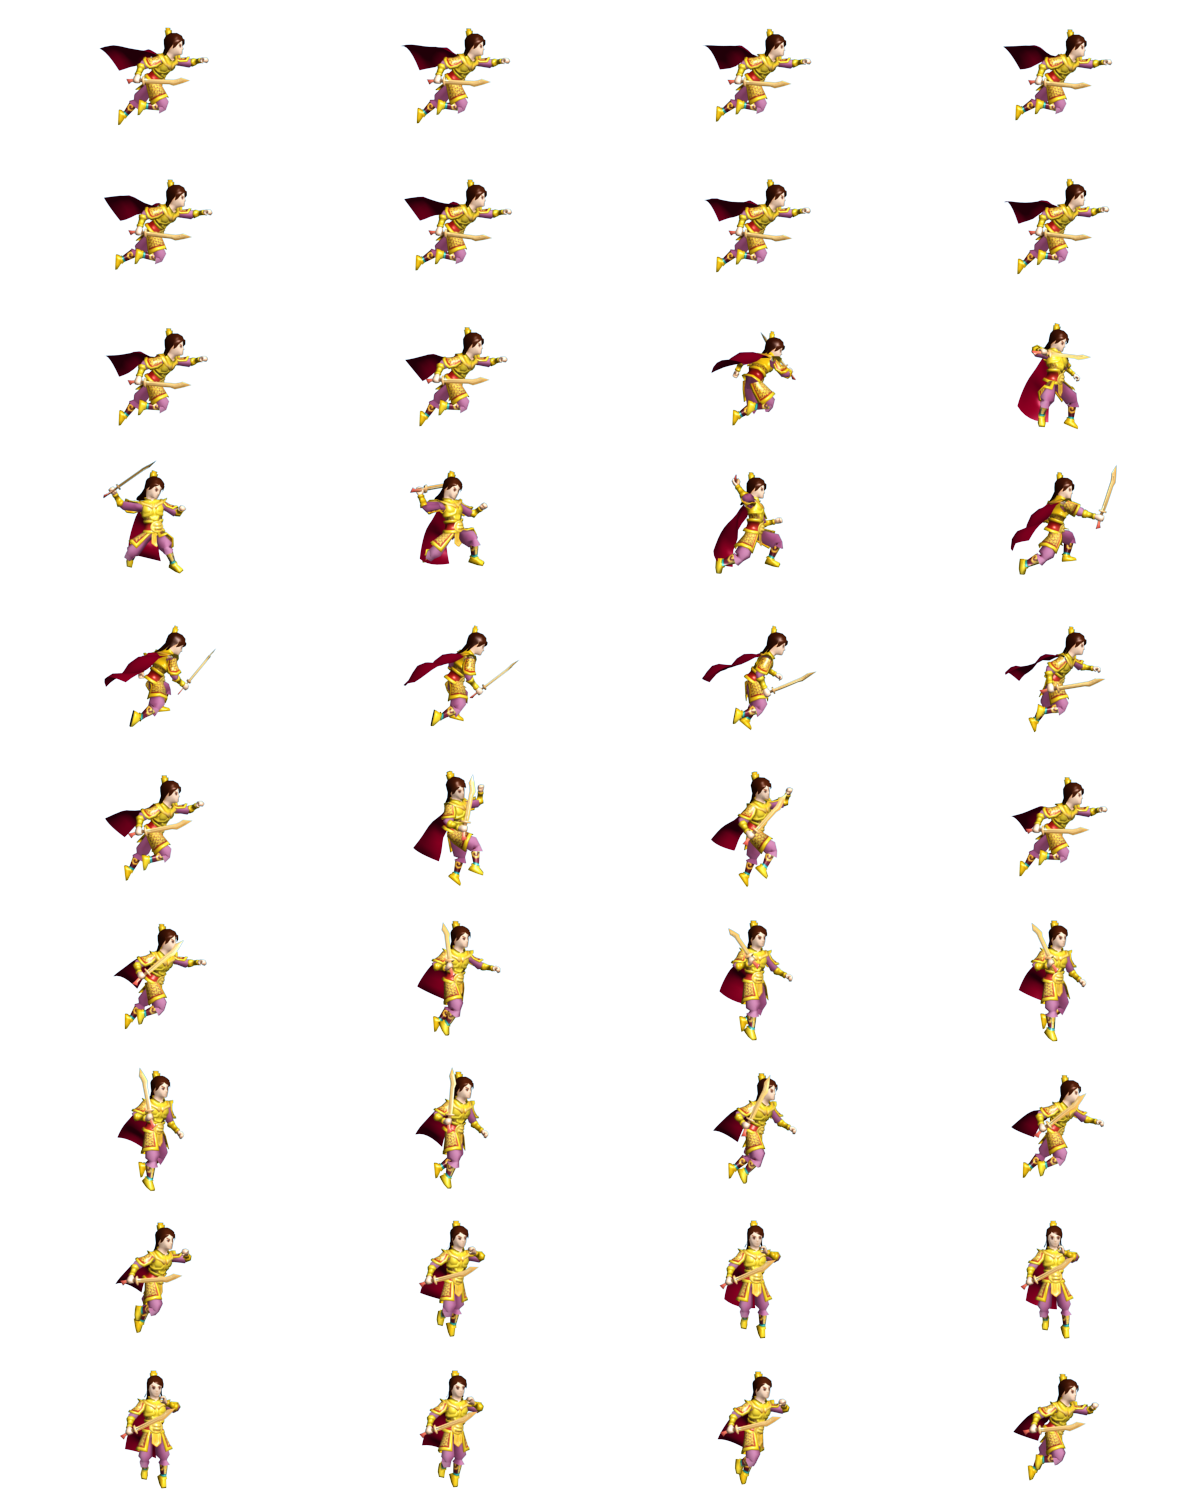
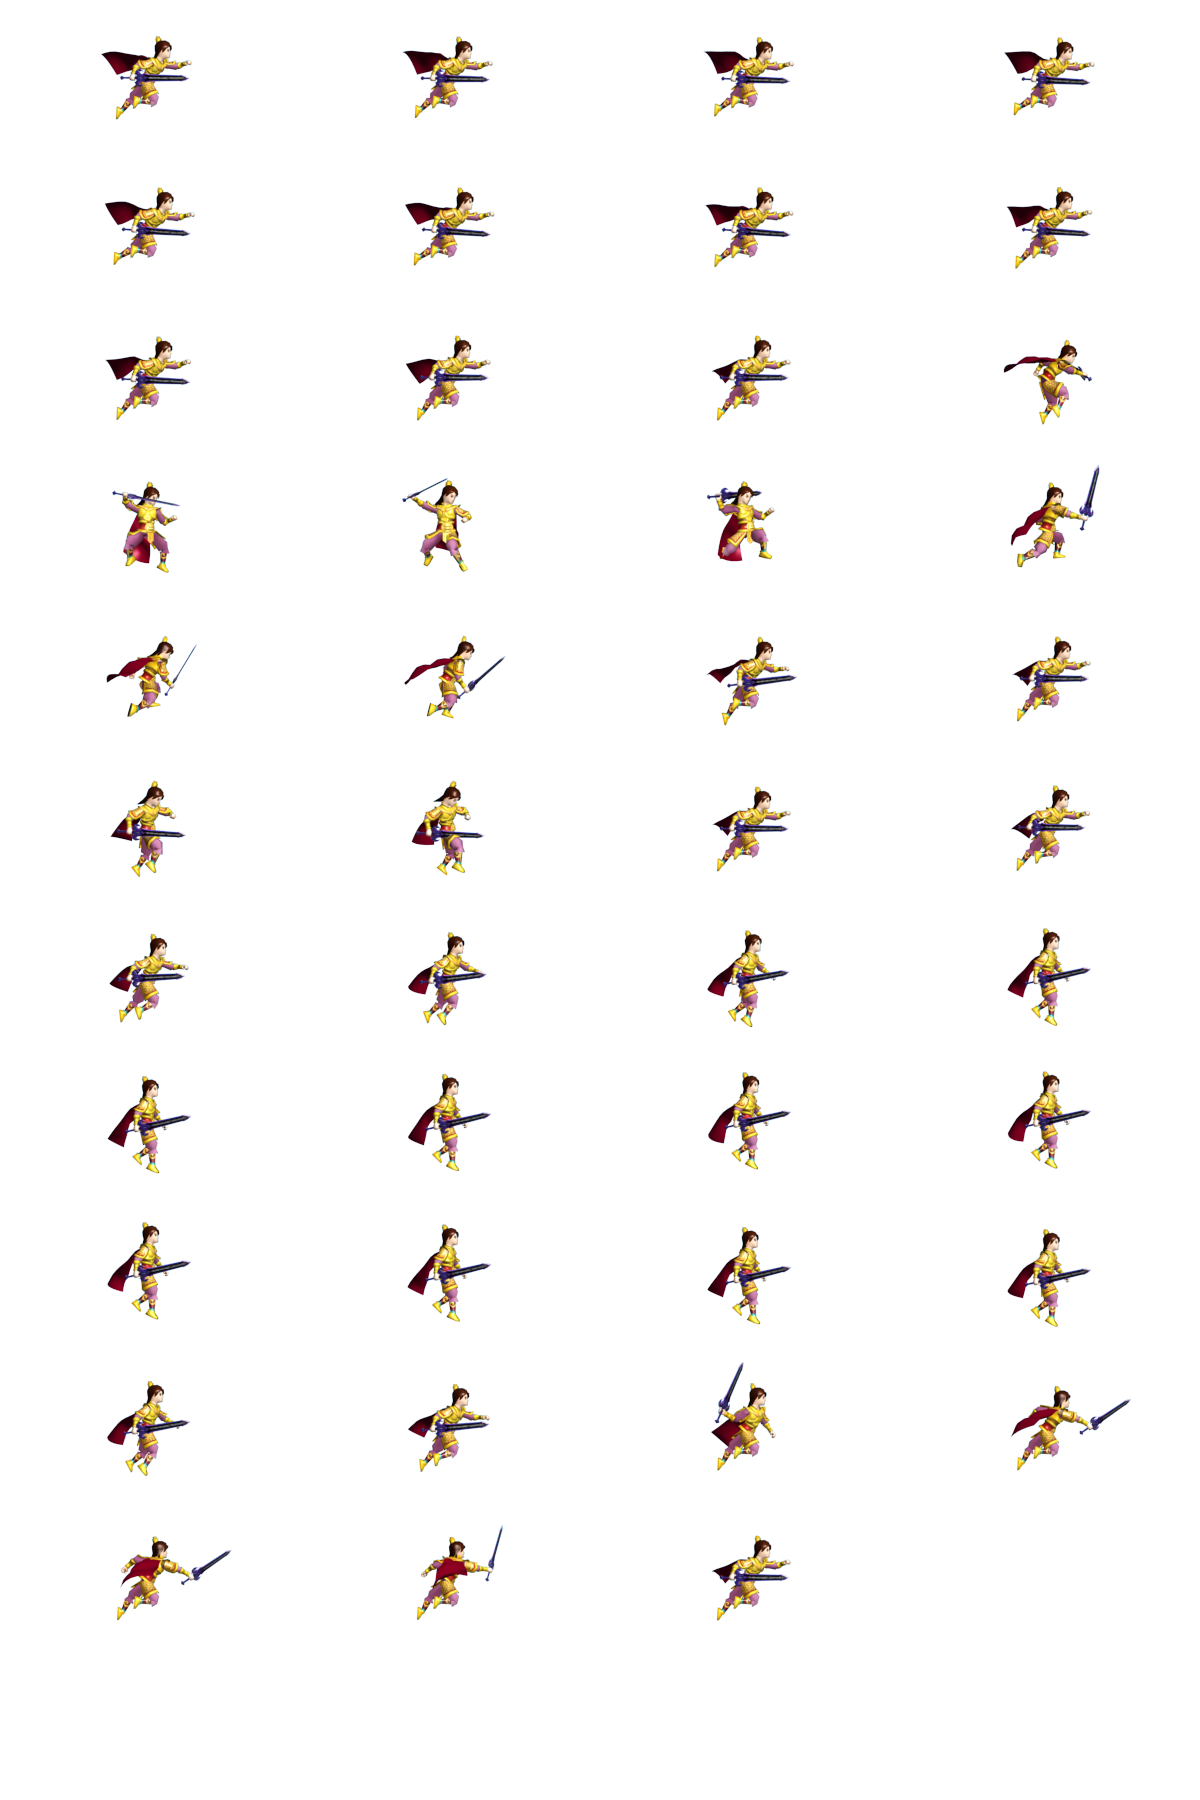
fix bug ，modify char3

diff --git a/mmodemo/demo/demo/MainGame.cs b/mmodemo/demo/demo/MainGame.cs
@@ -246,7 +246,7 @@ namespace demo
             }
             else
             {
-                ProjectXServer.Messages.PlayerLoginMsg msg = new ProjectXServer.Messages.PlayerLoginMsg();
+                ProjectXServer.Messages.PlayerLoginSelfMsg msg = new ProjectXServer.Messages.PlayerLoginSelfMsg();
                 msg.ClientID = 0;
                 msg.Name = "player1";
                 msg.Position = new float[] {GameConst.ScreenWidth / 2, GameConst.ScreenHeight / 2};
@@ -255,7 +255,7 @@ namespace demo
                 msg.DEF = 30;
                 msg.HP = 1000;
                 msg.MaxHP = 1000;
-                CreatePlayer(msg);
+                CreateLocalPlayer(msg);
             }
         }
 
@@ -279,58 +279,61 @@ namespace demo
             
         }
 
-        private void CreatePlayer(ProjectXServer.Messages.PlayerLoginMsg pn)
+        private void CreateLocalPlayer(ProjectXServer.Messages.PlayerLoginSelfMsg pn)
         {
             contentLoadingTask.Wait();
-            if (pn.ClientID == ClientID)
+            player = new Player(pn.Name, CurrentScene);
+            CharacterDefinition.PicDef pd = Content.Load<CharacterDefinition.PicDef>(@"chardef/char3");
+            CharacterPic cpic = new CharacterPic(pd, 15);
+            player.Picture = cpic;
+            CharacterTitle title = new CharacterTitle(GameConst.CurrentFont);
+            title.Layer = 15;
+            title.NameString = pn.Name;
+            title.Character = player;
+            player.Title = title;
+            player.Position = new Vector2(pn.Position[0], pn.Position[1]);
+            player.Speed = pn.Speed;//GameConst.PlayerSpeed;
+            player.ATK = pn.ATK;//GameConst.PlayerAtk;
+            player.DEF = pn.DEF;//GameConst.PlayerAtk;
+            player.HP = pn.HP;//GameConst.PlayerHP;
+            player.MaxHP = pn.MaxHP;// GameConst.PlayerHP;
+            player.AddActionSet("Idle", CharacterState.Spawn, CharacterActionSetChangeFactor.EffectCompleted, "Spawn");
+            player.AddActionSet("Idle", CharacterState.Idle, CharacterActionSetChangeFactor.Immediate, null);
+            player.AddPreRenderEffect("Spawn", spawnEffect);
+            player.ClientID = pn.ClientID;
+            CurrentScene.AddCharacter(player);
+            CurrentScene.Player = player;
+            player.UpdateSceneScroll();
+            Control ctrl = System.Windows.Forms.Control.FromHandle(GameConst.GameWindow.Handle);
+            ctrl.Invoke(new Action(() =>
             {
-                player = new Player(pn.Name, CurrentScene);
-                CharacterDefinition.PicDef pd = Content.Load<CharacterDefinition.PicDef>(@"chardef/char3");
-                CharacterPic cpic = new CharacterPic(pd, 15);
-                player.Picture = cpic;
-                CharacterTitle title = new CharacterTitle(GameConst.CurrentFont);
-                title.Layer = 15;
-                title.NameString = pn.Name;
-                title.Character = player;
-                player.Title = title;
-                player.Position = new Vector2(pn.Position[0], pn.Position[1]);
-                player.Speed = pn.Speed;//GameConst.PlayerSpeed;
-                player.ATK = pn.ATK;//GameConst.PlayerAtk;
-                player.DEF = pn.DEF;//GameConst.PlayerAtk;
-                player.HP = pn.HP;//GameConst.PlayerHP;
-                player.MaxHP = pn.MaxHP;// GameConst.PlayerHP;
-                player.AddActionSet("Idle", CharacterState.Spawn, CharacterActionSetChangeFactor.EffectCompleted, "Spawn");
-                player.AddActionSet("Idle", CharacterState.Idle, CharacterActionSetChangeFactor.Immediate, null);
-                player.AddPreRenderEffect("Spawn", spawnEffect);
-                player.ClientID = pn.ClientID;
-                CurrentScene.AddCharacter(player);
-                CurrentScene.Player = player;
-                player.UpdateSceneScroll();
                 this.Window.Title = pn.Name;
-            }
-            else
-            {
-                NetPlayer playernet = new NetPlayer(pn.Name, CurrentScene);
-                CharacterDefinition.PicDef pd = Content.Load<CharacterDefinition.PicDef>(@"chardef/char3");
-                CharacterPic cpic = new CharacterPic(pd, 15);
-                playernet.Picture = cpic;
-                CharacterTitle title = new CharacterTitle(GameConst.CurrentFont);
-                title.Layer = 15;
-                title.NameString = pn.Name;
-                title.Character = playernet;
-                playernet.Title = title;
-                playernet.Position = new Vector2(pn.Position[0], pn.Position[1]);
-                playernet.Speed = pn.Speed;// GameConst.PlayerSpeed;
-                playernet.ATK = pn.ATK;//GameConst.PlayerAtk;
-                playernet.DEF = pn.DEF;//GameConst.PlayerAtk;
-                playernet.HP = pn.HP;//GameConst.PlayerHP;
-                playernet.MaxHP = pn.MaxHP;// GameConst.PlayerHP;
-                //playernet.AddActionSet("Idle", CharacterState.Spawn, CharacterActionSetChangeFactor.EffectCompleted, "Spawn");
-                playernet.AddActionSet("Idle", CharacterState.Idle, CharacterActionSetChangeFactor.Immediate, null);
-                playernet.ClientID = pn.ClientID;
-                //playernet.AddPreRenderEffect("Spawn", spawnEffect);
-                CurrentScene.AddNetPlayer(playernet);
-            }
+            }));
+            
+        }
+
+        private void CreatePlayer(ProjectXServer.Messages.PlayerLoginMsg pn)
+        {
+            NetPlayer playernet = new NetPlayer(pn.Name, CurrentScene);
+            CharacterDefinition.PicDef pd = Content.Load<CharacterDefinition.PicDef>(@"chardef/char3");
+            CharacterPic cpic = new CharacterPic(pd, 15);
+            playernet.Picture = cpic;
+            CharacterTitle title = new CharacterTitle(GameConst.CurrentFont);
+            title.Layer = 15;
+            title.NameString = pn.Name;
+            title.Character = playernet;
+            playernet.Title = title;
+            playernet.Position = new Vector2(pn.Position[0], pn.Position[1]);
+            playernet.Speed = pn.Speed;// GameConst.PlayerSpeed;
+            playernet.ATK = pn.ATK;//GameConst.PlayerAtk;
+            playernet.DEF = pn.DEF;//GameConst.PlayerAtk;
+            playernet.HP = pn.HP;//GameConst.PlayerHP;
+            playernet.MaxHP = pn.MaxHP;// GameConst.PlayerHP;
+            //playernet.AddActionSet("Idle", CharacterState.Spawn, CharacterActionSetChangeFactor.EffectCompleted, "Spawn");
+            playernet.AddActionSet("Idle", CharacterState.Idle, CharacterActionSetChangeFactor.Immediate, null);
+            playernet.ClientID = pn.ClientID;
+            //playernet.AddPreRenderEffect("Spawn", spawnEffect);
+            CurrentScene.AddNetPlayer(playernet);
         }
 
         /// <summary>
@@ -552,10 +555,18 @@ namespace demo
                                     //   player.State = Character.CharacterState.Launch;
                                     //player.Target = new Vector2(CurrentScene.Viewport.X + ms.X, CurrentScene.Viewport.Y + ms.Y);
                                     //GameCursor.SetCursor(GameCursor.CursorType.Talk);
-                                    if (ClientID != 0)
+                                    if (player.State == CharacterState.Idle)
                                     {
-                                        player.StartMoveSyncTimer();
-                                        SendRequestMovementMsg(player);
+                                        if (ClientID != 0)
+                                        {
+                                            player.StartMoveSyncTimer();
+                                            SendRequestMovementMsg(player);
+                                        }
+                                    }
+                                    else
+                                    {
+                                        if (ClientID != 0)
+                                            SendTargetChangedMsg(player);
                                     }
                                 }
                             }

diff --git a/mmodemo/demo/demo/effects/NumberAnimation.cs b/mmodemo/demo/demo/effects/NumberAnimation.cs
@@ -1,0 +1,115 @@
+using System;
+using System.Collections.Generic;
+using System.Linq;
+using System.Text;
+
+
+using Microsoft.Xna.Framework;
+using Microsoft.Xna.Framework.Content;
+using Microsoft.Xna.Framework.GamerServices;
+using Microsoft.Xna.Framework.Graphics;
+using Microsoft.Xna.Framework.Media;
+
+namespace demo.effects
+{
+    public class NumberAnimation : RenderChunk
+    {
+        private int maxbit = 0; //最大位数
+        private int tvalue = 0;
+        private PreRenderEffect[] numbereffects;
+        private Color numcolor;
+        
+        public NumberAnimation(int value)
+        {
+            Value = value;
+        }
+
+        public Color Color
+        {
+            get
+            {
+                return numcolor;
+            }
+            set
+            {
+                numcolor = value;
+                for (int i = 0; i < maxbit; ++i)
+                {
+                    numbereffects[i].Color = numcolor;
+                }
+            }
+        }
+
+        public int Value {
+            get
+            {
+                return tvalue;
+            }
+            set
+            {
+                tvalue = value;
+                char[] ns = tvalue.ToString().ToCharArray();
+                maxbit = ns.Length;
+                Initialize(ns);
+            }
+        }
+
+        private void Initialize(char[] ns)
+        {
+            numbereffects = new PreRenderEffect[maxbit];
+            for (int i = 0; i < maxbit; ++i)
+            {
+                numbereffects[i] = new PreRenderEffect("number", 64, 64);
+                numbereffects[i].Initialize(GameConst.Content);
+                numbereffects[i].PlaySpeed = 0.0f;
+                numbereffects[i].Color = new Microsoft.Xna.Framework.Color(1.0f, 0.0f, 0.0f);
+                numbereffects[i].Frame = Convert.ToInt32(ns[i].ToString());
+            }
+        }
+
+        public override Vector2 Position
+        {
+            get
+            {
+                return base.Position;
+            }
+            set
+            {
+                base.Position = value;
+                float s = value.X - ((float)maxbit * 0.5f - 0.5f) * numbereffects[0].FrameSize.X * 0.5f;
+                for (int i = 0; i < maxbit; ++i)
+                {
+                    numbereffects[i].Position = new Vector2(i * numbereffects[0].FrameSize.X * 0.5f + s, value.Y);
+                }
+            }
+        }
+
+        public void Play(Scene scene)
+        {
+            for (int i = 0; i < maxbit; ++i)
+            {
+                numbereffects[i].Layer = 8000;
+                numbereffects[i].State = RenderChunkState.FadeOutToDel;
+                scene.AddRenderChunk(numbereffects[i]);
+            }
+            this.State = RenderChunkState.FadeOutToDel;
+            scene.AddRenderChunk(this);
+
+            scene.SortRenderChunksByLayer();
+        }
+
+        public override void Update(GameTime gametime)
+        {
+            for (int i = 0; i < maxbit; ++i)
+            {
+               numbereffects[i].Position = new Vector2(numbereffects[i].Position.X, numbereffects[i].Position.Y - (float)gametime.ElapsedGameTime.TotalSeconds * 200.0f);
+            }
+            base.Update(gametime);
+        }
+
+        public override void Render(SpriteBatch sb)
+        {
+            base.Render(sb);
+        }
+    }
+}

diff --git a/mmodemo/demo/demo/MiniMap.cs b/mmodemo/demo/demo/MiniMap.cs
@@ -118,8 +118,9 @@ namespace demo
             sb.End();
             //Vector2 p = new Vector2();
             sb.Begin(SpriteSortMode.Immediate, BlendState.AlphaBlend);
-            foreach (Character ch in characters)
+            for (int i = 0 ; i < characters.Count ; ++i)
             {
+                Character ch = characters[i];
                 //ch.Position;
                 p.X = ch.Position.X / scene.ActualSize.Z * Size.X;
                 p.Y = ch.Position.Y / scene.ActualSize.W * Size.Y;
@@ -138,8 +139,9 @@ namespace demo
                 }
 
             }
-            foreach (Player ch in netplayers)
+            for (int i = 0  ; i < netplayers.Count ; ++i)
             {
+                NetPlayer ch = netplayers[i];
                 p.X = ch.Position.X / scene.ActualSize.Z * Size.X;
                 p.Y = ch.Position.Y / scene.ActualSize.W * Size.Y;
                 sb.Draw(charactertexture, p, null, Color.Red, 0.0f, new Vector2(charactertexture.Width / 2, charactertexture.Height / 2), new Vector2(0.5f, 0.5f), SpriteEffects.None, 0.0f);

diff --git a/mmodemo/demo/demo/Scene.cs b/mmodemo/demo/demo/Scene.cs
@@ -918,6 +918,9 @@ namespace demo
                                 fireball.AddActionSet("Moving", CharacterState.Moving, CharacterActionSetChangeFactor.ArriveAttackTarget, localplayer.OperateTarget);
                                 fireball.AddActionSet("Attack", CharacterState.Attack, CharacterActionSetChangeFactor.AnimationCompleted, null);
                                 fireball.AddActionSet("Idle", CharacterState.Dead, CharacterActionSetChangeFactor.AnimationCompleted, null);
+
+                                localplayer.AddActionSet("Attack2", CharacterState.Attack2, CharacterActionSetChangeFactor.AnimationCompleted, null);
+                                localplayer.AddActionSet("Idle", CharacterState.Idle, CharacterActionSetChangeFactor.Immediate, null);
                             }
                         }
                         else

diff --git a/mmodemo/demo/demo/NetProcess.cs b/mmodemo/demo/demo/NetProcess.cs
@@ -53,6 +53,11 @@ namespace demo
 
                 }
             }
+            else if (adapter.Message is ProjectXServer.Messages.PlayerLoginSelfMsg)
+            {
+                ProjectXServer.Messages.PlayerLoginSelfMsg plm = (ProjectXServer.Messages.PlayerLoginSelfMsg)adapter.Message;
+                CreateLocalPlayer(plm);
+            }
             else if (adapter.Message is ProjectXServer.Messages.PlayerLoginMsg)
             {
                 ProjectXServer.Messages.PlayerLoginMsg plm = (ProjectXServer.Messages.PlayerLoginMsg)adapter.Message;
